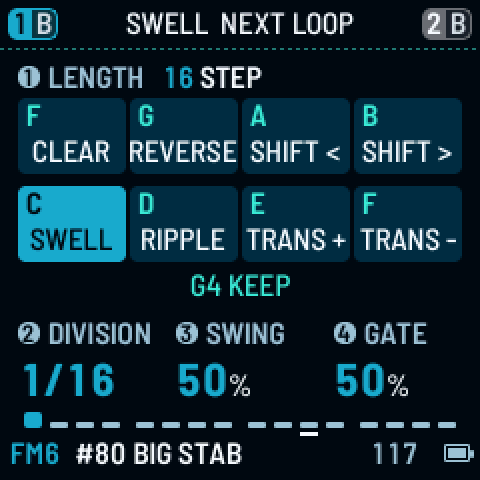
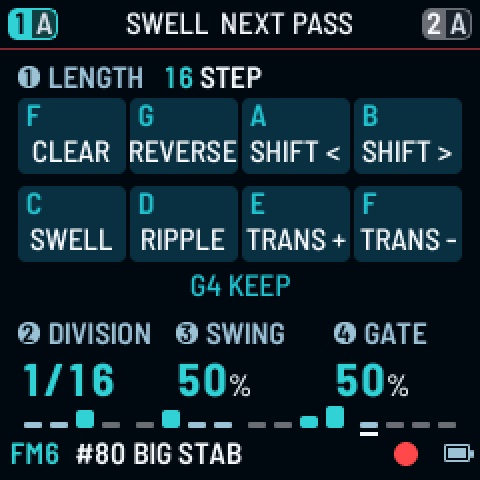
Pictures: the README / site guide pictures and the AUTO TIDE glide GIF re-shot on 1.0.0-b13
Every docs/tide picture and the emulator poster, from the emulator's own runner (web/emu/emu_run.c) on this tree (firmware equal
to tide-1.0.0-b13), music playing: the REC mark is b13's red dot, the multis list is b13's (M04 DUB ROOTS), the take, SWELL
(NEXT PASS while REC is armed), MORPH, AUTO TIDE, TIDE SETTINGS, QUICK ARP, MIXER and SAVE. Stills 2x and the GIF 4x, nearest
neighbour, 160 frames at 80 ms as before. Alt texts follow (MORPH 126 TO B 16/16, the red dot, SWELL NEXT PASS).

diff --git a/felucca-base/web/landing.html b/felucca-base/web/landing.html
@@ -70,7 +70,7 @@
           <figcaption><b>TIDE SETTINGS</b>The style, what the tide moves, how far a new End B goes, the live assist and the play mode.</figcaption>
         </figure>
         <figure class="shot">
-          <img src="img/morph.png" width="240" height="240" alt="The MORPH page while music plays: each part's sound drawn as live waves, part 1 in sea glass above and part 2 in coral below; knob 1's line reads MORPH 95 TO A 6/16; the footer shows both patches." loading="lazy">
+          <img src="img/morph.png" width="240" height="240" alt="The MORPH page while music plays: each part's sound drawn as live waves, part 1 in sea glass above and part 2 in coral below; knob 1's line reads MORPH 126 TO B 16/16; the footer shows both patches." loading="lazy">
           <figcaption><b>MORPH</b>One part or both: each part's real sound as live waves, like an oscilloscope: a held note stands still, a chord beats; at rest the lines lie flat.</figcaption>
         </figure>
       </div>

diff --git a/README.md b/README.md
@@ -59,7 +59,7 @@ More: [TIDE SETTINGS in the guide](docs/TIDE_GUIDE.md#3-tide-settings-set-and-fo
 
 ### MORPH: the hand page
 
-<img align="right" src="docs/tide/morph.png" width="240" alt="The MORPH page while music plays: each part's live sound as waves, part 1 in sea glass above and part 2 in coral below; knob 1's line reads MORPH 95 TO A 6/16 and the footer shows SND, FDBK and TIME">
+<img align="right" src="docs/tide/morph.png" width="240" alt="The MORPH page while music plays: each part's live sound as waves, part 1 in sea glass above and part 2 in coral below; knob 1's line reads MORPH 126 TO B 16/16 and the footer shows SND, FDBK and TIME">
 
 HOME's first page, for your hands. **Knob 1** is the MORPH fader from A to B; knobs 2 to 4 are the macros of the loaded multi's genre (a single sound: FILTER, RESONANCE, ECHO). Most of the page shows the sound itself as waves, like an oscilloscope: a held note stands still, a chord beats.
 - **Hold OCT+ and click knob 1:** End B becomes a new random roll.
@@ -92,7 +92,7 @@ More: [QUICKSTART](docs/QUICKSTART.md).<br clear="right">
 
 ### Live assist: record a take, get an answer
 
-<img align="right" src="docs/tide/live-rec.png" width="240" alt="The MORPH page while a take records: the header says BASS LINE C MINOR (the answer), knob 1's line reads TAKE BAR 1/1, both parts' waves move and a red REC sits in the footer">
+<img align="right" src="docs/tide/live-rec.png" width="240" alt="The MORPH page while a take records: the header says BASS LINE C MINOR (the answer), knob 1's line reads TAKE BAR 1/1, both parts' waves move and a red dot sits in the footer">
 
 Play a line, and TIDE gives the other part something that fits. Hold **SEQ** and tap **REC** to arm recording (a tap of REC disarms), press PLAY, and play: your notes go into the pattern, a red REC shows in the footer and knob 1's line counts the take (`TAKE  BAR 1/1`). When the take closes, the header names the answer (`BASS LINE  C MINOR`), the other part gets an **ANSWER** that fits inside the loop and does not rub against your notes:
 - **BASS LINE:** a bass line in the key, one chord a bar, an octave under you, in the rhythm of the multi's genre. **DOUBLE:** your notes a scale third above. **REPLY:** your first half is the call, the second half the answer. **ECHO:** your last note thrown four times, fading.
@@ -103,7 +103,7 @@ More: [ANSWER and REC in the guide](docs/TIDE_GUIDE.md#3-tide-settings-set-and-f
 
 ### SWELL and RIPPLE: make the answer again
 
-<img align="right" src="docs/tide/swell-next.png" width="240" alt="The sequence tools (SEQ held): CLEAR, REVERSE, SHIFT, SWELL picked, RIPPLE, TRANS, and G4 KEEP; the header says SWELL NEXT LOOP">
+<img align="right" src="docs/tide/swell-next.png" width="240" alt="The sequence tools (SEQ held): CLEAR, REVERSE, SHIFT, SWELL, RIPPLE, TRANS, and G4 KEEP; the header says SWELL NEXT PASS (REC is armed)">
 
 Not happy with the answer? Hold **SEQ** and press **C4: SWELL** for a whole new answer, or **D4: RIPPLE** to move a few of its notes and keep its rhythm. It lands at the start of the next loop; the header says `SWELL  NEXT LOOP` until then (`NEXT PASS` while REC is armed), and a second press replaces the waiting one. Every press is one undo step: **OCT-** and a turn of **PRESETS**. **G4: KEEP** (also with SEQ held) makes what you hear the part's own, sound and pattern.<br clear="right">
 
